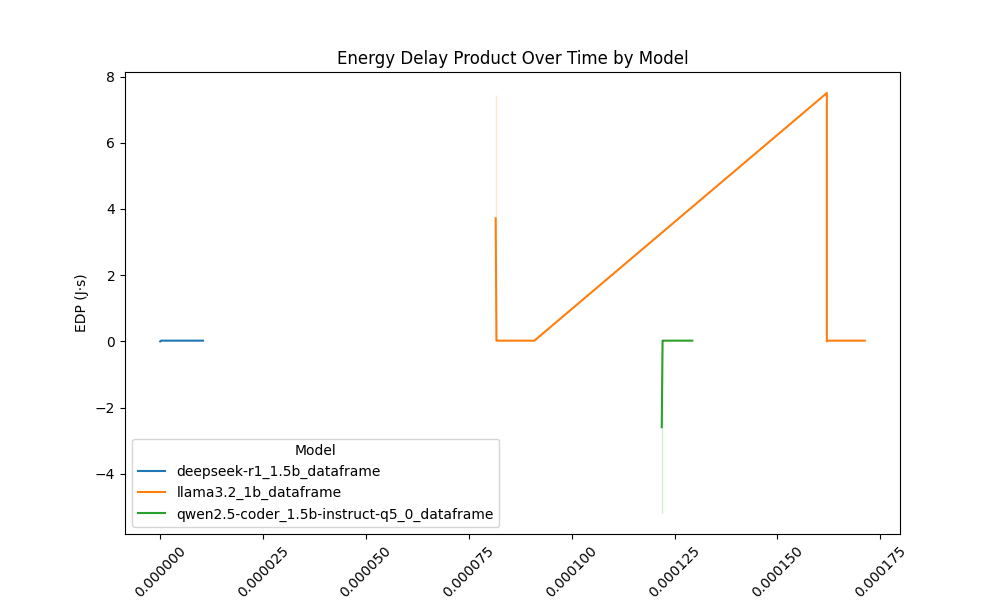
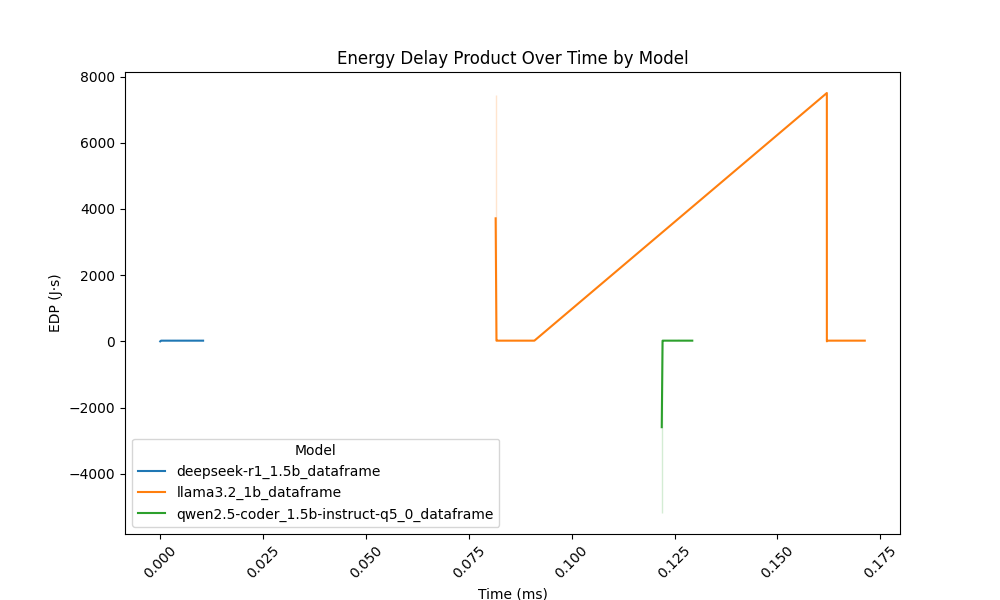
Bug fix

diff --git a/visuals.py b/visuals.py
@@ -24,7 +24,7 @@ for file in parquet_files:
 df = pd.concat(all_data, ignore_index=True)
 
 # Calculate time since start in seconds
-df['Time'] = (df['Time'] - df['Time'].min() * 1e3) / 1e9
+df['Time'] = (df['Time'] - df['Time'].min()) / 1e6
 
 # Calculate additional metrics
 df['CPU_USAGE_MEAN'] = df[[col for col in df.columns if 'CPU_USAGE' in col]].mean(axis=1)
